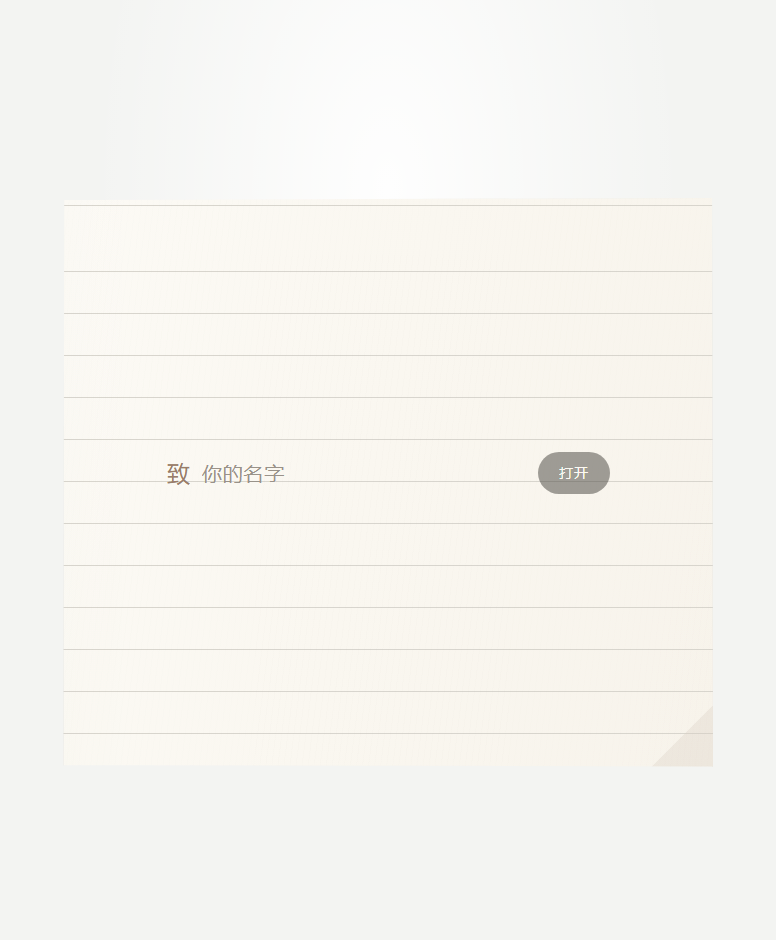
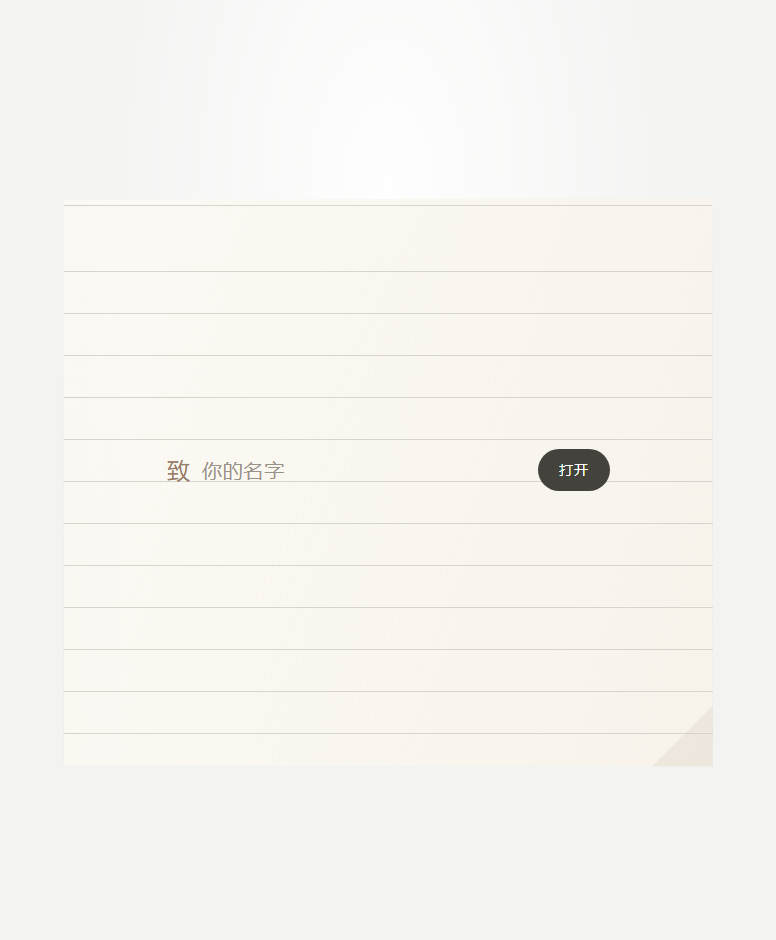
fix: align YaHei glyphs with ruled paper

Changed region(s): [[0.6804, 0.4628, 0.8041, 0.5245], [0.2165, 0.4936, 0.3711, 0.5245]]

diff --git a/styles.css b/styles.css
@@ -221,7 +221,7 @@ a:focus-visible {
 
 .name-form {
   width: min(100%, 450px);
-  transform: translateY(5px);
+  transform: translateY(2px);
 }
 
 .name-line {
@@ -314,7 +314,7 @@ a:focus-visible {
   min-height: 570px;
   display: flex;
   flex-direction: column;
-  padding: 169px clamp(30px, 10vw, 72px) 65px;
+  padding: 166px clamp(30px, 10vw, 72px) 65px;
 }
 
 .salutation,
@@ -356,7 +356,7 @@ a:focus-visible {
 
 .note-time {
   position: relative;
-  top: 4px;
+  top: 1px;
   color: color-mix(in srgb, var(--ink) 44%, transparent);
   font-family: "PingFang SC", "Hiragino Sans GB", "Microsoft YaHei", system-ui, sans-serif;
   font-size: 11px;
@@ -507,7 +507,7 @@ a:focus-visible {
   }
 
   .reader-flow {
-    padding: 170px 34px 65px;
+    padding: 167px 34px 65px;
   }
 
   .note-copy {
@@ -529,7 +529,7 @@ a:focus-visible {
   }
 
   .reader-flow {
-    padding: 170px 27px 65px;
+    padding: 167px 27px 65px;
   }
 
   .note-copy {

diff --git a/index.html b/index.html
@@ -8,7 +8,7 @@
   <meta name="description" content="一张米白横线纸，写下只对某个人说的话。支持姓名匹配、多页纸条与普通祝福。">
   <title>跨年悄悄话 · Whispers</title>
   <link rel="icon" type="image/svg+xml" href="./assets/favicon.svg">
-  <link rel="stylesheet" href="./styles.css">
+  <link rel="stylesheet" href="./styles.css?v=20261118-4">
 </head>
 <body>
   <div class="site-shell">
@@ -66,7 +66,7 @@
     <p class="noscript-message">请开启 JavaScript，纸条才能展开。</p>
   </noscript>
 
-  <script src="./data-utils.js"></script>
-  <script src="./app.js"></script>
+  <script src="./data-utils.js?v=20261118-4"></script>
+  <script src="./app.js?v=20261118-4"></script>
 </body>
 </html>

diff --git a/publisher.html b/publisher.html
@@ -7,7 +7,7 @@
   <meta name="robots" content="noindex, nofollow, noarchive">
   <title>悄悄话 · 发布端</title>
   <link rel="icon" type="image/svg+xml" href="./assets/favicon.svg">
-  <link rel="stylesheet" href="./publisher.css">
+  <link rel="stylesheet" href="./publisher.css?v=20261118-4">
 </head>
 <body>
   <div class="pub-shell">
@@ -161,7 +161,7 @@
     </main>
   </div>
 
-  <script src="./data-utils.js"></script>
-  <script src="./publisher.js"></script>
+  <script src="./data-utils.js?v=20261118-4"></script>
+  <script src="./publisher.js?v=20261118-4"></script>
 </body>
 </html>
